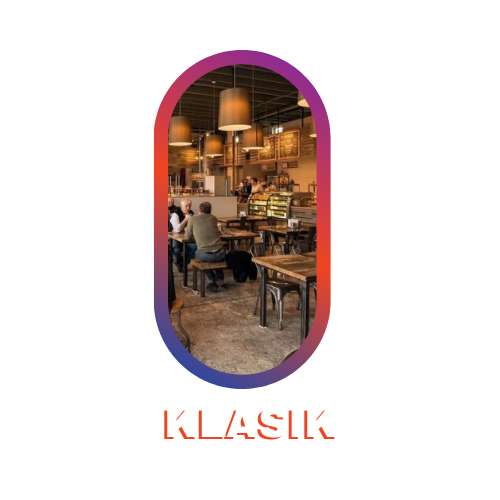
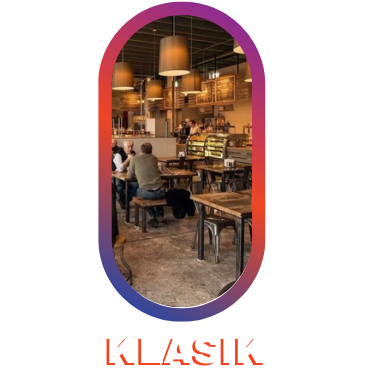
bismillah bisa yokks derr bisaaaa

diff --git a/src/inpongopi/FCaffe.java b/src/inpongopi/FCaffe.java
@@ -29,28 +29,47 @@ public class FCaffe extends javax.swing.JFrame {
         btn_Industrial = new javax.swing.JLabel();
         btn_Klasik = new javax.swing.JLabel();
         btn_Modern = new javax.swing.JLabel();
+        btn_back = new javax.swing.JLabel();
         Jlatar = new javax.swing.JLabel();
 
         setDefaultCloseOperation(javax.swing.WindowConstants.EXIT_ON_CLOSE);
         getContentPane().setLayout(new org.netbeans.lib.awtextra.AbsoluteLayout());
 
-        btn_Industrial.setIcon(new javax.swing.ImageIcon(getClass().getResource("/image/C_Industrial.png"))); // NOI18N
+        btn_Industrial.setIcon(new javax.swing.ImageIcon(getClass().getResource("/image/C_industrial.png"))); // NOI18N
         btn_Industrial.setText("jLabel2");
-        getContentPane().add(btn_Industrial, new org.netbeans.lib.awtextra.AbsoluteConstraints(-70, 140, 380, 410));
+        getContentPane().add(btn_Industrial, new org.netbeans.lib.awtextra.AbsoluteConstraints(170, 140, 310, 400));
 
         btn_Klasik.setIcon(new javax.swing.ImageIcon(getClass().getResource("/image/C_klasik.png"))); // NOI18N
         btn_Klasik.setText("jLabel3");
-        getContentPane().add(btn_Klasik, new org.netbeans.lib.awtextra.AbsoluteConstraints(260, 140, 340, 400));
+        getContentPane().add(btn_Klasik, new org.netbeans.lib.awtextra.AbsoluteConstraints(430, 140, 270, 410));
 
         btn_Modern.setIcon(new javax.swing.ImageIcon(getClass().getResource("/image/C_modern.png"))); // NOI18N
         btn_Modern.setText("jLabel4");
-        getContentPane().add(btn_Modern, new org.netbeans.lib.awtextra.AbsoluteConstraints(590, 120, 360, 440));
+        getContentPane().add(btn_Modern, new org.netbeans.lib.awtextra.AbsoluteConstraints(670, 140, 290, 410));
+
+        btn_back.setIcon(new javax.swing.ImageIcon(getClass().getResource("/image/backk.png"))); // NOI18N
+        btn_back.setText("jLabel1");
+        btn_back.addMouseListener(new java.awt.event.MouseAdapter() {
+            public void mouseClicked(java.awt.event.MouseEvent evt) {
+                btn_backMouseClicked(evt);
+            }
+        });
+        getContentPane().add(btn_back, new org.netbeans.lib.awtextra.AbsoluteConstraints(-40, 460, 270, 70));
 
         Jlatar.setIcon(new javax.swing.ImageIcon(getClass().getResource("/image/nuansa cafe.png"))); // NOI18N
-        getContentPane().add(Jlatar, new org.netbeans.lib.awtextra.AbsoluteConstraints(0, 0, -1, 550));
+        getContentPane().add(Jlatar, new org.netbeans.lib.awtextra.AbsoluteConstraints(0, -30, 960, 600));
 
         pack();
     }// </editor-fold>//GEN-END:initComponents
+
+    private void btn_backMouseClicked(java.awt.event.MouseEvent evt) {//GEN-FIRST:event_btn_backMouseClicked
+        // TODO add your handling code here:
+        tipe t = new tipe();
+        t.setLocationRelativeTo(null);
+        t.setVisible(true);
+        this.setVisible(false);
+        System.out.println("Warkop form berhasil");
+    }//GEN-LAST:event_btn_backMouseClicked
 
     /**
      * @param args the command line arguments
@@ -89,8 +108,9 @@ public class FCaffe extends javax.swing.JFrame {
 
     // Variables declaration - do not modify//GEN-BEGIN:variables
     private javax.swing.JLabel Jlatar;
-    private javax.swing.JLabel btn_Industrial;
+    public javax.swing.JLabel btn_Industrial;
     private javax.swing.JLabel btn_Klasik;
     private javax.swing.JLabel btn_Modern;
+    private javax.swing.JLabel btn_back;
     // End of variables declaration//GEN-END:variables
 }

diff --git a/src/inpongopi/tipe.java b/src/inpongopi/tipe.java
@@ -35,17 +35,46 @@ public class tipe extends javax.swing.JFrame {
 
         btn_warkop.setIcon(new javax.swing.ImageIcon(getClass().getResource("/image/wrkop.png"))); // NOI18N
         btn_warkop.setText("jLabel2");
+        btn_warkop.addMouseListener(new java.awt.event.MouseAdapter() {
+            public void mouseClicked(java.awt.event.MouseEvent evt) {
+                btn_warkopMouseClicked(evt);
+            }
+        });
         getContentPane().add(btn_warkop, new org.netbeans.lib.awtextra.AbsoluteConstraints(0, 230, 480, 210));
 
         btn_cafe.setIcon(new javax.swing.ImageIcon(getClass().getResource("/image/cave.png"))); // NOI18N
-        getContentPane().add(btn_cafe, new org.netbeans.lib.awtextra.AbsoluteConstraints(460, 250, 430, 220));
+        btn_cafe.addMouseListener(new java.awt.event.MouseAdapter() {
+            public void mouseClicked(java.awt.event.MouseEvent evt) {
+                btn_cafeMouseClicked(evt);
+            }
+        });
+        getContentPane().add(btn_cafe, new org.netbeans.lib.awtextra.AbsoluteConstraints(490, 240, 430, 230));
 
         jlatar.setIcon(new javax.swing.ImageIcon(getClass().getResource("/image/tipe.png"))); // NOI18N
-        getContentPane().add(jlatar, new org.netbeans.lib.awtextra.AbsoluteConstraints(10, 0, 960, 540));
+        getContentPane().add(jlatar, new org.netbeans.lib.awtextra.AbsoluteConstraints(0, 0, 960, 540));
 
         pack();
     }// </editor-fold>//GEN-END:initComponents
 
+    private void btn_warkopMouseClicked(java.awt.event.MouseEvent evt) {//GEN-FIRST:event_btn_warkopMouseClicked
+        // TODO add your handling code here:
+        FWarkop jr = new FWarkop();
+        jr.setLocationRelativeTo(null);
+        jr.setVisible(true);
+        this.setVisible(false);
+        System.out.println("Warkop form berhasil");
+    }//GEN-LAST:event_btn_warkopMouseClicked
+
+    private void btn_cafeMouseClicked(java.awt.event.MouseEvent evt) {//GEN-FIRST:event_btn_cafeMouseClicked
+        // TODO add your handling code here:
+        FCaffe jr = new FCaffe();
+        jr.setLocationRelativeTo(null);
+        jr.setVisible(true);
+        this.setVisible(false);
+        System.out.println("caffe form berhasil");
+    }//GEN-LAST:event_btn_cafeMouseClicked
+
+  
     /**
      * @param args the command line arguments
      */
@@ -76,14 +105,16 @@ public class tipe extends javax.swing.JFrame {
         /* Create and display the form */
         java.awt.EventQueue.invokeLater(new Runnable() {
             public void run() {
-                new tipe().setVisible(true);
+                tipe t  = new tipe();
+                t.setVisible(true);
+                t.setLocationRelativeTo(null);
             }
         });
     }
 
     // Variables declaration - do not modify//GEN-BEGIN:variables
-    private javax.swing.JLabel btn_cafe;
-    private javax.swing.JLabel btn_warkop;
-    private javax.swing.JLabel jlatar;
+    public javax.swing.JLabel btn_cafe;
+    public javax.swing.JLabel btn_warkop;
+    public javax.swing.JLabel jlatar;
     // End of variables declaration//GEN-END:variables
 }

diff --git a/src/inpongopi/home.java b/src/inpongopi/home.java
@@ -4,6 +4,8 @@
  */
 package inpongopi;
 
+import java.awt.event.MouseEvent;
+import javax.swing.JOptionPane;
 /**
  *
  * @author Thomas Fajar Nugraha
@@ -36,16 +38,29 @@ public class home extends javax.swing.JFrame {
         jPanel1.setLayout(new org.netbeans.lib.awtextra.AbsoluteLayout());
 
         btn_mulai.setIcon(new javax.swing.ImageIcon(getClass().getResource("/image/MULAI.png"))); // NOI18N
-        btn_mulai.setText("jLabel3");
-        jPanel1.add(btn_mulai, new org.netbeans.lib.awtextra.AbsoluteConstraints(560, 390, 410, 160));
+        btn_mulai.addMouseListener(new java.awt.event.MouseAdapter() {
+            public void mouseClicked(java.awt.event.MouseEvent evt) {
+                btn_mulaiMouseClicked(evt);
+            }
+        });
+        jPanel1.add(btn_mulai, new org.netbeans.lib.awtextra.AbsoluteConstraints(560, 380, 380, 160));
 
-        jlatar.setIcon(new javax.swing.ImageIcon(getClass().getResource("/image/1.jpg"))); // NOI18N
+        jlatar.setIcon(new javax.swing.ImageIcon(getClass().getResource("/image/home.jpg"))); // NOI18N
         jPanel1.add(jlatar, new org.netbeans.lib.awtextra.AbsoluteConstraints(0, 0, 970, 550));
 
         getContentPane().add(jPanel1, new org.netbeans.lib.awtextra.AbsoluteConstraints(0, 0, -1, -1));
 
         pack();
     }// </editor-fold>//GEN-END:initComponents
+
+    private void btn_mulaiMouseClicked(java.awt.event.MouseEvent evt) {//GEN-FIRST:event_btn_mulaiMouseClicked
+        // TODO add your handling code here:
+        tipe t = new tipe();
+        t.setLocationRelativeTo(null);
+        t.setVisible(true);
+        this.setVisible(false);
+        System.out.println("mulai berhasil");
+    }//GEN-LAST:event_btn_mulaiMouseClicked
 
     /**
      * @param args the command line arguments
@@ -77,14 +92,17 @@ public class home extends javax.swing.JFrame {
         /* Create and display the form */
         java.awt.EventQueue.invokeLater(new Runnable() {
             public void run() {
-                new home().setVisible(true);
+                home h = new home();
+                h.setVisible(true);
+                h.setLocationRelativeTo(null);
             }
         });
     }
 
     // Variables declaration - do not modify//GEN-BEGIN:variables
-    private javax.swing.JLabel btn_mulai;
-    private javax.swing.JPanel jPanel1;
-    private javax.swing.JLabel jlatar;
+    public javax.swing.JLabel btn_mulai;
+    public javax.swing.JPanel jPanel1;
+    public javax.swing.JLabel jlatar;
     // End of variables declaration//GEN-END:variables
+
 }

diff --git a/src/inpongopi/FWarkop.java b/src/inpongopi/FWarkop.java
@@ -28,6 +28,7 @@ public class FWarkop extends javax.swing.JFrame {
 
         btn_Wklasik = new javax.swing.JLabel();
         btn_Wmodern = new javax.swing.JLabel();
+        btn_back = new javax.swing.JLabel();
         Jlatar = new javax.swing.JLabel();
 
         setDefaultCloseOperation(javax.swing.WindowConstants.EXIT_ON_CLOSE);
@@ -41,11 +42,28 @@ public class FWarkop extends javax.swing.JFrame {
         btn_Wmodern.setText("jLabel3");
         getContentPane().add(btn_Wmodern, new org.netbeans.lib.awtextra.AbsoluteConstraints(460, 260, 450, 290));
 
+        btn_back.setIcon(new javax.swing.ImageIcon(getClass().getResource("/image/backk.png"))); // NOI18N
+        btn_back.addMouseListener(new java.awt.event.MouseAdapter() {
+            public void mouseClicked(java.awt.event.MouseEvent evt) {
+                btn_backMouseClicked(evt);
+            }
+        });
+        getContentPane().add(btn_back, new org.netbeans.lib.awtextra.AbsoluteConstraints(-40, 430, 270, 90));
+
         Jlatar.setIcon(new javax.swing.ImageIcon(getClass().getResource("/image/nuansa_warkop.png"))); // NOI18N
-        getContentPane().add(Jlatar, new org.netbeans.lib.awtextra.AbsoluteConstraints(0, 0, 960, -1));
+        getContentPane().add(Jlatar, new org.netbeans.lib.awtextra.AbsoluteConstraints(0, 0, 960, 540));
 
         pack();
     }// </editor-fold>//GEN-END:initComponents
+
+    private void btn_backMouseClicked(java.awt.event.MouseEvent evt) {//GEN-FIRST:event_btn_backMouseClicked
+        // TODO add your handling code here:
+        tipe t = new tipe();
+        t.setLocationRelativeTo(null);
+        t.setVisible(true);
+        this.setVisible(false);
+        System.out.println("Warkop form berhasil");
+    }//GEN-LAST:event_btn_backMouseClicked
 
     /**
      * @param args the command line arguments
@@ -84,7 +102,8 @@ public class FWarkop extends javax.swing.JFrame {
 
     // Variables declaration - do not modify//GEN-BEGIN:variables
     private javax.swing.JLabel Jlatar;
-    private javax.swing.JLabel btn_Wklasik;
-    private javax.swing.JLabel btn_Wmodern;
+    public javax.swing.JLabel btn_Wklasik;
+    public javax.swing.JLabel btn_Wmodern;
+    public javax.swing.JLabel btn_back;
     // End of variables declaration//GEN-END:variables
 }

diff --git a/src/inpongopi/InpoNgopi.java b/src/inpongopi/InpoNgopi.java
@@ -15,6 +15,10 @@ public class InpoNgopi {
      */
     public static void main(String[] args) {
         // TODO code application logic here
+        System.out.println("Hello World!");
+        home h = new home();
+        h.setLocationRelativeTo(null);
+        h.setVisible(true);
     }
     
 }
